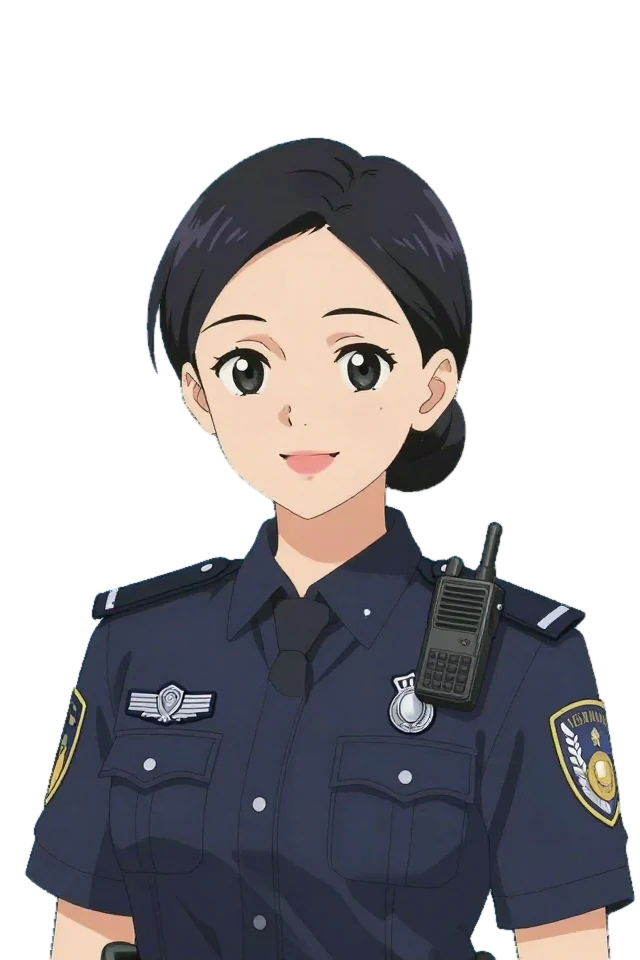
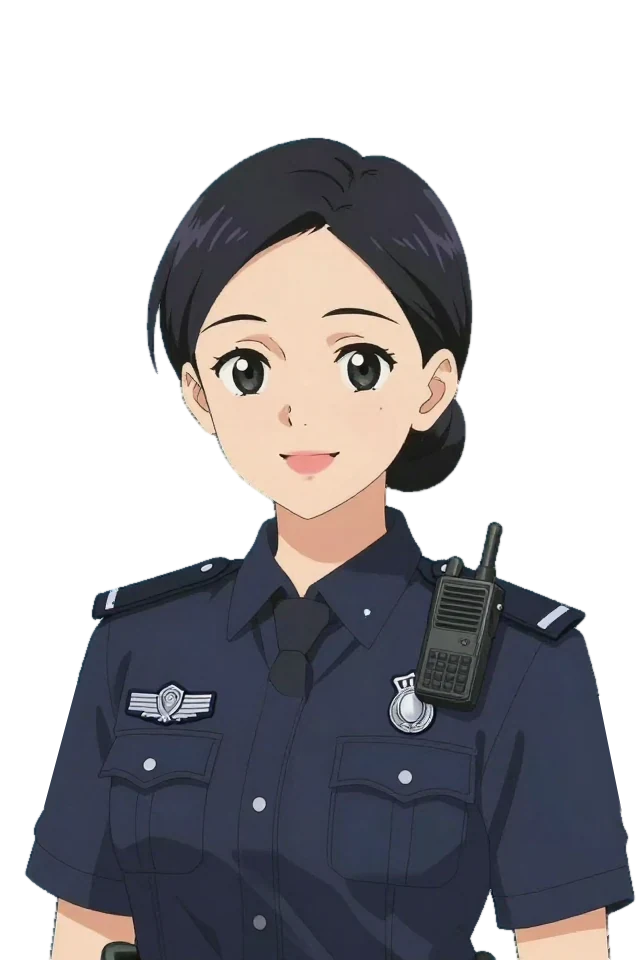
feat: add title-screen clear progress button and retouch police sleeve patches
- Title screen shows a "clear progress" button once any level or ending is recorded;
  settings and title share confirmReset() in js/ui/chrome.js (settings are kept).
- c06_police sprites: sleeve patches with fake text removed via OpenCV inpaint.
- GAPS.md rows 12 and 13 updated.

Changed region(s): [[0.8438, 0.7188, 0.9688, 0.875], [0.0625, 0.7188, 0.1562, 0.8438]]

diff --git a/js/screens/settings.js b/js/screens/settings.js
@@ -1,8 +1,8 @@
 // Settings: subtitles, voice, sound, text speed, tours, progress reset and
 // the credits for the open-source libraries the game loads.
 
-import { h, toast, confirmDialog } from '../ui/dom.js';
-import { topbar } from '../ui/chrome.js';
+import { h, toast } from '../ui/dom.js';
+import { topbar, confirmReset } from '../ui/chrome.js';
 import { DEFAULT_SETTINGS, totals } from '../store.js';
 import * as tts from '../audio/tts.js';
 import * as sfx from '../audio/sfx.js';
@@ -105,18 +105,7 @@ export async function mount(root, _params, ctx) {
         }, '重看導覽')),
         row('重設學習進度', `目前已通關 ${t.cleared} 關、${t.stars} 顆星。設定會保留。`, h('button', {
           class: 'btn btn--danger btn--sm', type: 'button',
-          onclick: async () => {
-            const ok = await confirmDialog({
-              title: '確定要重設進度？',
-              body: '所有關卡星星、已發現的結局與失誤統計都會清除，而且無法復原。',
-              ok: '清除進度', danger: true,
-            });
-            if (!ok) return;
-            store.reset();
-            sfx.play('bad');
-            toast('進度已清除，從第 1 關重新出發。');
-            ctx.go('');
-          },
+          onclick: () => confirmReset(ctx),
         }, '清除進度'))),
       h('article', { class: 'panel panel--about' },
         h('h2', { class: 'panel__title' }, '關於'),

diff --git a/js/ui/chrome.js b/js/ui/chrome.js
@@ -1,6 +1,6 @@
 // Shared screen chrome: top bar with navigation and the ambience toggle.
 
-import { h } from './dom.js';
+import { h, toast, confirmDialog } from './dom.js';
 import { icon } from './icons.js';
 import * as ambient from '../audio/ambient.js';
 import * as sfx from '../audio/sfx.js';
@@ -43,6 +43,21 @@ export function topbar(ctx, { title, active, back = '' }) {
         'aria-current': n.route === active ? 'page' : false,
       }, h('span', { html: icon(n.icon, { size: 18 }) }), h('span', { class: 'topnav__label' }, n.label)))),
     ambientButton(ctx.store));
+}
+
+// Confirm, then wipe the progress (settings stay) and return to the title screen.
+// Used by the settings screen and the title screen.
+export async function confirmReset(ctx) {
+  const ok = await confirmDialog({
+    title: '確定要重設進度？',
+    body: '所有關卡星星、已發現的結局與失誤統計都會清除，而且無法復原。',
+    ok: '清除進度', danger: true,
+  });
+  if (!ok) return;
+  ctx.store.reset();
+  sfx.play('bad');
+  toast('進度已清除，從第 1 關重新出發。');
+  ctx.go('');
 }
 
 export function starRow(count, max = 3, cls = 'stars') {

diff --git a/js/screens/title.js b/js/screens/title.js
@@ -2,7 +2,7 @@
 
 import { h } from '../ui/dom.js';
 import { icon } from '../ui/icons.js';
-import { ambientButton } from '../ui/chrome.js';
+import { ambientButton, confirmReset } from '../ui/chrome.js';
 import { nextLevel, totals } from '../store.js';
 import * as motion from '../fx/motion.js';
 import * as sfx from '../audio/sfx.js';
@@ -41,7 +41,11 @@ export function mount(root, _params, ctx) {
       h('p', { class: 'title__progress' },
         h('span', {}, `已通關 ${t.cleared} / ${t.total}`),
         h('span', { html: icon('star', { size: 14 }) }), h('span', {}, `${t.stars} / ${t.maxStars}`),
-        h('span', {}, `・已發現結局 ${t.endings}`))));
+        h('span', {}, `・已發現結局 ${t.endings}`)),
+      // lets the next player start fresh on a shared browser
+      (started || t.endings > 0) && h('button', {
+        class: 'btn btn--ghost btn--sm', type: 'button', onclick: () => confirmReset(ctx),
+      }, h('span', { html: icon('retry', { size: 16 }) }), '清除進度，換人玩')));
 
   motion.titleIn(logo);
   motion.stagger(root.querySelectorAll('.title__menu > *'), { delay: 0.5 });

diff --git a/GAPS.md b/GAPS.md
@@ -15,6 +15,6 @@
 | 9 | 朗讀品質依瀏覽器與作業系統而定 | 平台限制 | 使用瀏覽器內建 Web Speech API，沒有自備語音 | 不同裝置的口音、速度不同；部分線上語音不回報字詞邊界，此時不會逐字標示 | 不排程 | 無 |
 | 10 | 進度只存在本機瀏覽器 | 設計取捨 | 純靜態網站，沒有帳號與後端 | 清除瀏覽器資料或換裝置會遺失進度 | 不排程 | 無 |
 | 11 | 同一角色各表情有小差異 | [實作]，已接受 | 每張圖獨立生成，同角色共用 seed 但構圖與細節仍會變 | c04_ticket_clerk 的 confused 畫風與其他表情不同（seed 0、1 都一樣，推測是提示詞造成）；ember_upset 表情偏淡；ms_wong_upset 髮型較長；配件略有出入（leo 背包帶顏色、c05_museum 胸針、c05_hostel 領巾、c02_barber_happy 沒有鬍子等） | 需要時用 `--match 角色id_ --force --seed-offset N` 重畫 | 黃政文 |
-| 12 | 負面提示詞實際上沒有作用 | 已知限制 | 腳本以 CFG 1.0 取樣（Z-Image Turbo 建議值），ComfyUI 在 CFG 1.0 時不計算負面提示詞 | 實際出現：c06_police 四張袖章都有假字（外觀已加 plain sleeves without patches 並重畫，seed offset 0 到 3 仍有；另在暫存區試兩種寫法：blank sleeves 剩一個袖章、no emblems or insignia 兩袖都有，都沒解決）；L049 招牌有「24H」與類似便利商店的配色；L001 看板、L007 零食包裝、L098 牆面有小型假字或斑點。ch01 章節封面改成空蕩的入境大廳描述後已無人影 | police 袖章要去掉需手動修圖（如 OpenCV 修補），待決定 | 黃政文 |
-| 13 | 12 張立繪有手動修圖，重畫會遺失 | 已知限制 | 自動去背仍漏掉的手臂間背景，用一次性腳本手動清除；c02_cashier_confused 胸前的「M」標誌用 OpenCV 修補掉 | 修過的檔案：c02_cashier_confused、c03_librarian_neutral/happy/confused、c05_night_neutral/happy/upset/confused、c08_daniel_neutral/happy、c09_cafe_finance_upset/confused。用 `--force` 重畫這些角色會回到未修狀態 | 重畫這些角色時重新檢查 | 黃政文 |
+| 12 | 負面提示詞實際上沒有作用 | 已知限制 | 腳本以 CFG 1.0 取樣（Z-Image Turbo 建議值），ComfyUI 在 CFG 1.0 時不計算負面提示詞 | 實際出現：c06_police 四張袖章都有假字（外觀已加 plain sleeves without patches 並重畫，seed offset 0 到 3 仍有；另在暫存區試兩種寫法：blank sleeves 剩一個袖章、no emblems or insignia 兩袖都有，都沒解決），2026-10-04 改用 OpenCV 修補移除袖章（見第 13 列），胸前徽章與領章保留（無字）；L049 招牌有「24H」與類似便利商店的配色；L001 看板、L007 零食包裝、L098 牆面有小型假字或斑點。ch01 章節封面改成空蕩的入境大廳描述後已無人影 | 制服類配件要換提示詞寫法（避開 police uniform）或事後修圖 | 黃政文 |
+| 13 | 16 張立繪有手動修圖，重畫會遺失 | 已知限制 | 自動去背仍漏掉的手臂間背景，用一次性腳本手動清除；c02_cashier_confused 胸前的「M」標誌、c06_police 四張的袖章用 OpenCV 修補掉 | 修過的檔案：c02_cashier_confused、c03_librarian_neutral/happy/confused、c05_night_neutral/happy/upset/confused、c06_police_neutral/happy/upset/confused、c08_daniel_neutral/happy、c09_cafe_finance_upset/confused。用 `--force` 重畫這些角色會回到未修狀態 | 重畫這些角色時重新檢查 | 黃政文 |
 | 14 | 部分圖片用了非預設 seed，專案裡沒有記錄 | 已知限制 | `--seed-offset` 只是執行參數，不寫入資料檔 | 以 `--seed-offset 1` 產生的：bg/L007、bg/L036、c02_cashier 全組、c09_hotel_director 全組。之後不帶參數 `--force` 重畫會得到不同的圖 | 重畫時參照本列 | 黃政文 |
